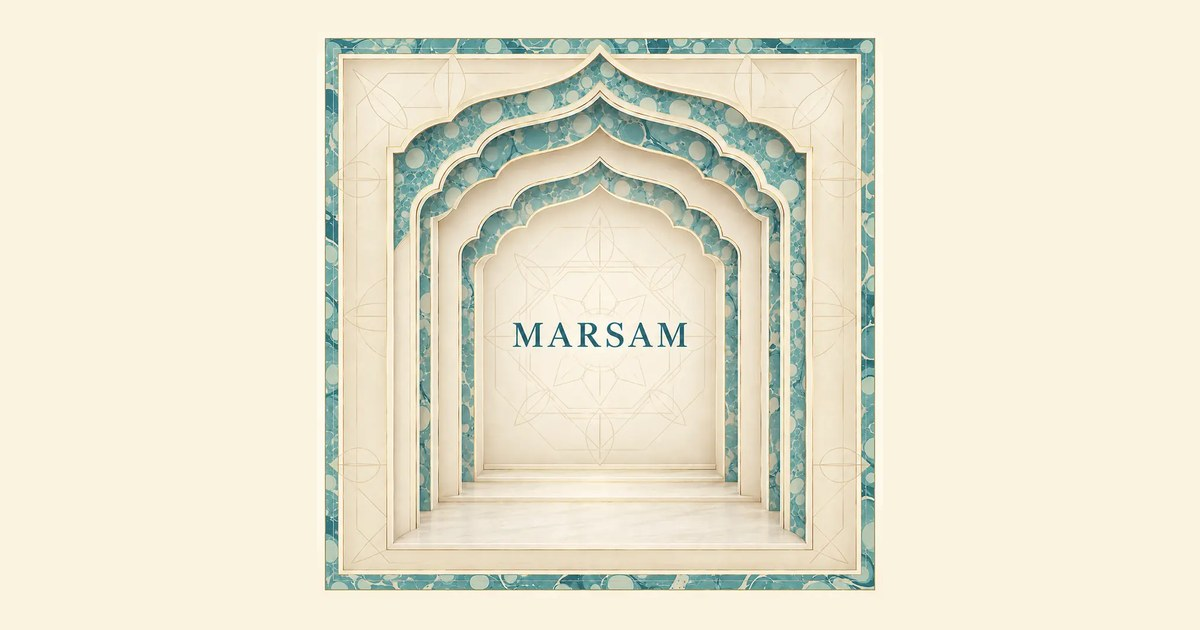
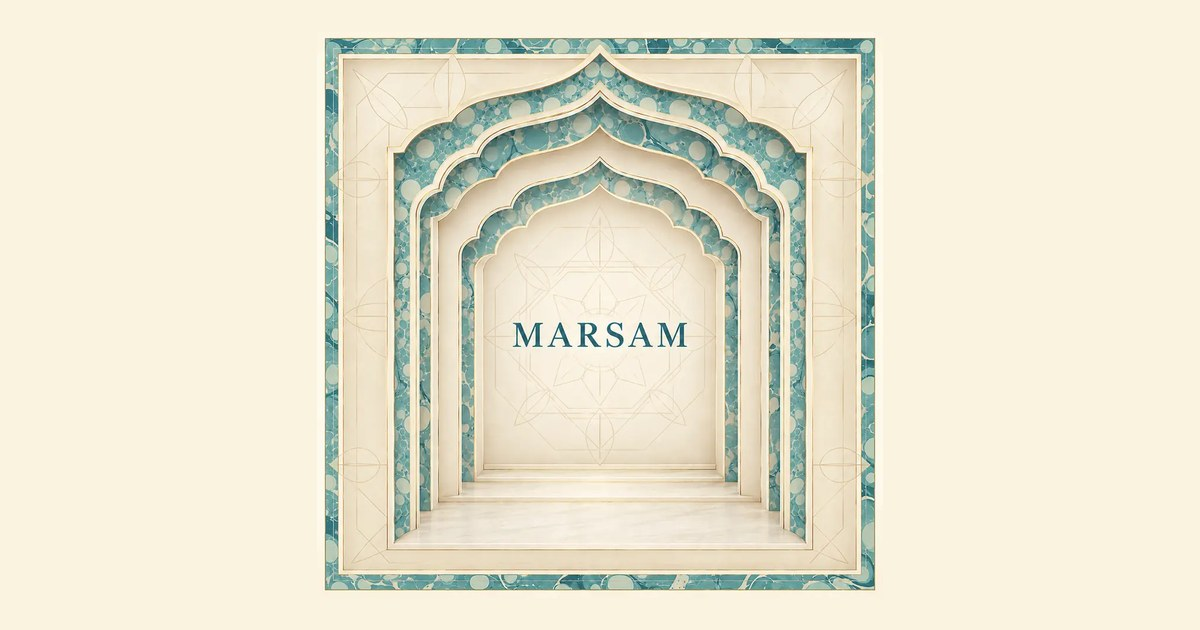
fix(social): render preview card from the continuous portal SVG
The card came from approved-portal-960.webp, whose marbled band breaks
at the first left curve; the home page shows the repaired SVG instead.

Claude-Session: https://claude.ai/code/session_01VCWVMuBf3bq8jZy5zhGEJj

Changed region(s): [[0.3083, 0.0905, 0.5242, 0.8746]]

diff --git a/scripts/og-card.py b/scripts/og-card.py
@@ -1,21 +1,32 @@
-"""Build the 1200x630 social preview card from the approved portal artwork.
+"""Build the 1200x630 social preview card from the portal artwork the site actually shows.
 
-The approved square artwork is placed unchanged (uniform downscale only, no crop, stretch or recolour)
-on a paper background sampled from its own outer edge, so the card cannot drift from the approved visual.
-Usage: python scripts/og-card.py  ->  public/assets/og-card.jpg
+The source is the continuous portal SVG used on the home page (its marbled band is repaired;
+the older approved-portal-960.webp raster still carries the broken first curve). The SVG is
+rasterised unchanged in headless Chromium, then placed with a uniform downscale only (no crop,
+stretch or recolour) on a paper background sampled from its own outer edge.
+Usage: python scripts/og-card.py  ->  public/assets/og-card.jpg  (needs: pip install playwright pillow)
 """
+import io
 import pathlib
 from PIL import Image
+from playwright.sync_api import sync_playwright
 
 ROOT = pathlib.Path(__file__).resolve().parent.parent
-SRC = ROOT / "public/assets/heritage/approved-portal-960.webp"
+SRC = ROOT / "public/assets/heritage/portal-continuous-v1.svg"
 OUT = ROOT / "public/assets/og-card.jpg"
-W, H, SIDE = 1200, 630, 566
+W, H, SIDE, RENDER = 1200, 630, 566, 960
 
-art = Image.open(SRC).convert("RGB")
+with sync_playwright() as p:
+    browser = p.chromium.launch()
+    page = browser.new_page(viewport={"width": RENDER, "height": RENDER})
+    page.goto(SRC.as_uri())
+    png = page.screenshot(clip={"x": 0, "y": 0, "width": RENDER, "height": RENDER})
+    browser.close()
+
+art = Image.open(io.BytesIO(png)).convert("RGB")
 edge = [art.getpixel((x, y)) for x in (2, art.width - 3) for y in (2, art.height - 3)]
 paper = tuple(sum(c[i] for c in edge) // len(edge) for i in range(3))
 card = Image.new("RGB", (W, H), paper)
 card.paste(art.resize((SIDE, SIDE), Image.LANCZOS), ((W - SIDE) // 2, (H - SIDE) // 2))
 card.save(OUT, "JPEG", quality=88, optimize=True, progressive=True)
-print(OUT.relative_to(ROOT), card.size, "paper", paper)
+print(OUT.relative_to(ROOT), card.size, "paper", paper, "bytes", OUT.stat().st_size)
